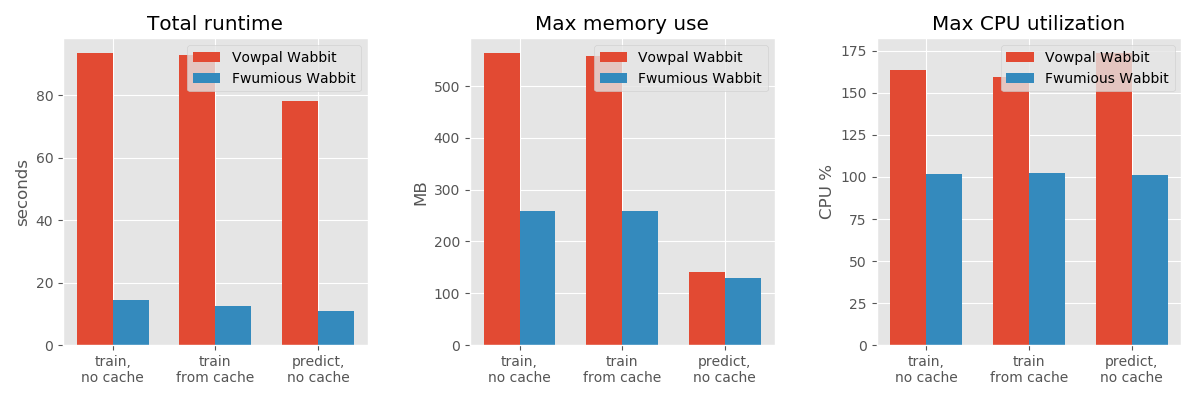
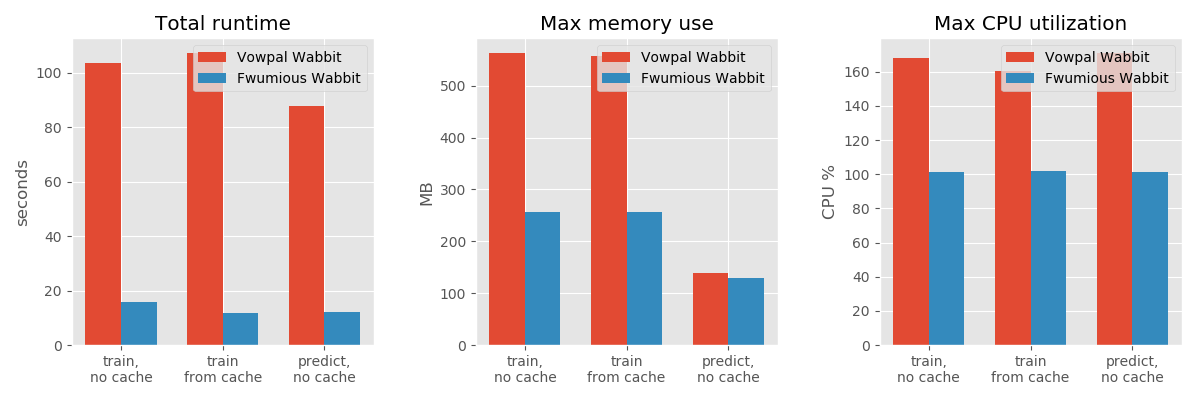
bumping version & benchmark info

diff --git a/src/version.rs b/src/version.rs
@@ -1,1 +1,1 @@
-pub static LATEST: &str = "0.1";
+pub static LATEST: &str = "0.2";

diff --git a/BENCHMARK.md b/BENCHMARK.md
@@ -14,12 +14,12 @@ here are the results for 3 runs for each scenario, taking mean values:
 ![benchmark results](benchmark_results.png)
 Scenario|Runtime (seconds)|Memory (MB)|CPU %
 ----|----:|----:|----:
-vw train, no cache|93.46 | 564 | 163.90
-fw train, no cache|14.32 | 258 | 102.00
-vw train, using cache|92.66 | 559 | 159.33
-fw train, using cache|12.56 | 258 | 102.37
-vw predict, no cache|78.11 | 142 | 173.80
-fw predict, no cache|11.05 | 130 | 101.00
+vw train, no cache|103.42 | 563 | 168.27
+fw train, no cache|15.82 | 257 | 101.27
+vw train, using cache|107.28 | 558 | 160.57
+fw train, using cache|11.95 | 257 | 101.77
+vw predict, no cache|87.97 | 139 | 171.07
+fw predict, no cache|12.17 | 129 | 101.60
 
 ### Model equivalence
 loss values for the test set:
@@ -81,8 +81,8 @@ or, if you just want the numbers with less dependencies run:
 
 ### versions:
 ```
-vowpal wabbit 8.9.0 (git commit: e775b2d19)
-fwumious wabbit 0.1 (git commit: 7249dc7)
+vowpal wabbit 8.9.0 (git commit: cfa6749a9)
+fwumious wabbit 0.2 (git commit: 6f51a4d)
 ```
 
 ### CPU Info
@@ -92,5 +92,5 @@ Intel(R) Xeon(R) CPU E5-2630 v2 @ 2.60GHz
 ### Operating System
 ```
 System: Linux
-Version: #174~14.04.1-Ubuntu SMP Thu May 9 08:17:37 UTC 2019
+Version: #186-Ubuntu SMP Mon Dec 4 19:09:19 UTC 2017
 ```
